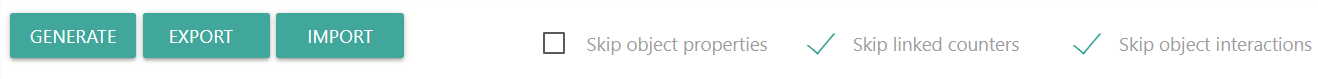
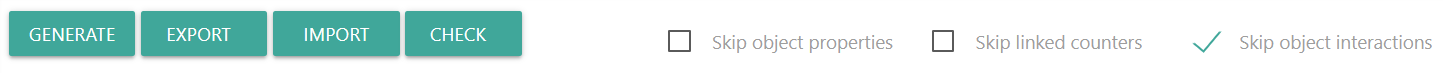
* actions/import&export: fix errors, add check button, update help * actions/counter_settings: fix error when make list of the counters * models_db/countersDB.js: fix error * models_db/objectsDB.js: fix error

diff --git a/actions/import_export/server.js b/actions/import_export/server.js
@@ -29,19 +29,21 @@ module.exports = function(args, callback) {
     // find existing objects in database for update
     var counters = {};
     var objects = {};
-    importedData.forEach(o => {
-        if(Array.isArray(o.counters)) {
-            o.counters.forEach(counterName => counters[counterName] = 0);
+    importedData.forEach(obj => {
+        if(Array.isArray(obj.counters)) {
+            obj.counters.forEach(counterName => counters[counterName] = 0);
         }
-        objects[o.name] = 0;
+        objects[obj.name] = 0;
 
-        if(Array.isArray(o.interactions)) {
-            o.interactions.forEach(interaction => {
+        if(Array.isArray(obj.interactions)) {
+            obj.interactions.forEach(interaction => {
                 objects[interaction.name1] = 0;
                 objects[interaction.name2] = 0;
             });
         }
     });
+
+    if(!Object.keys(objects).length) return callback(new Error('Can\'t find objects in the imported data'));
 
     // get object IDs by object names
     modelsDBObjectsDB.getObjectsByNames(Object.keys(objects), function (err, rows) {
@@ -56,15 +58,19 @@ module.exports = function(args, callback) {
             }
             rows.forEach(row => counters[row.name] = row.id);
 
+            log.info('Import objects from ', importedData);
+            log.info('Objects: ', objects);
+            log.info('Counters: ', counters);
             transactionDB.begin(function (err) {
                 if (err) return callback(err);
 
                 async.eachSeries(importedData, function (param, callback) {
-                    addOrUpdateObjects(args.user, {
+                    addOrUpdateObjects(args.username, {
                         id: objects[param.name],
                         name: param.name,
                         description: param.description,
                         disabled: param.disabled,
+                        sortPosition: param.sortPosition,
                         color: param.color,
                     }, function (err, objectID) {
                         if (err) {
@@ -72,20 +78,22 @@ module.exports = function(args, callback) {
                                 err.message + ': ' + JSON.stringify(param)));
                         }
 
+                        objects[param.name] = objectID;
+
                         async.waterfall([function (callback) {
-                                saveProperties(args.user, {
+                                saveProperties(args.username, {
                                     id: objectID,
                                     name: param.name,
                                     properties: args.skipProperties ? null : param.properties,
                                 }, callback);
                             }, function (callback) {
-                                saveLinkedCounters(args.user, {
+                                saveLinkedCounters(args.username, {
                                     id: objectID,
                                     name: param.name,
                                     counters: args.skipLinkedCounters ? null : param.counters,
                                 }, counters, callback);
                             }, function (callback) {
-                                saveInteractions(args.user, {
+                                saveInteractions(args.username, {
                                     id: objectID,
                                     name: param.name,
                                     interactions: args.skipInteractions ? null : param.interactions,

diff --git a/actions/import_export/static/client.js b/actions/import_export/static/client.js
@@ -75,6 +75,19 @@ var JQueryNamespace = (function ($) {
 
         $("#importObjectBtn").on('change', load);
 
+        $('#checkDependenciesBtn').click(function() {
+            importExportEditor.save();
+            var objectsDataStr = $('#importExportJSONEditor').val();
+
+            try {
+                var objectsData = checkData(objectsDataStr);
+            } catch(e) {
+                log.error('Error in object data: ', e.message);
+                return;
+            }
+            checkDependencies(objectsData)
+        })
+
         M.Tooltip.init(document.querySelectorAll('.tooltipped'), {enterDelay: 500});
 
         generateJSON();
@@ -126,6 +139,7 @@ var JQueryNamespace = (function ($) {
         importExportEditor.setValue('[]');
         importExportEditor.save();
 
+        if(!objectsIDs.length) return;
 
         var objectsIDs = objects.map(o => o.id);
         // objects = [{id:, name:, description:, sortPosition:, color:, disabled:}, ...]
@@ -252,6 +266,11 @@ var JQueryNamespace = (function ($) {
 
     function checkDependencies(objectsData, callback) {
 
+        if(!Array.isArray(objectsData) || !objectsData.length) {
+            M.toast({html: 'Object data not found in editor', displayLength: 3000});
+            return;
+        }
+
         var externalObjectNames = {}, externalCounterNames = {};
 
         objectsData.forEach(objectData => {
@@ -261,8 +280,14 @@ var JQueryNamespace = (function ($) {
 
             if(Array.isArray(objectData.interactions) && objectData.interactions.length) {
                 objectData.interactions.forEach(intersection => {
-                    externalObjectNames[intersection.name1] = 0;
-                    externalObjectNames[intersection.name2] = 0;
+                    if(objectData.name) {
+                        if (intersection.name1 && objectData.name.toUpperCase() !== intersection.name1.toUpperCase()) {
+                            externalObjectNames[intersection.name1] = 0;
+                        }
+                        if (intersection.name2 && objectData.name.toUpperCase() !== intersection.name2.toUpperCase()) {
+                            externalObjectNames[intersection.name2] = 0;
+                        }
+                    }
                 });
             }
 
@@ -312,7 +337,7 @@ var JQueryNamespace = (function ($) {
                 importExportEditor.setValue(JSON.stringify(objectsData, null, 4));
 
                 if(!unresolvedObjects.length && !unresolvedCounters.length) {
-                    M.toast({html: 'Successfully loading JSON for objects', displayLength: 2000});
+                    M.toast({html: 'Successfully checking JSON data. No errors found', displayLength: 2000});
                 } else {
                     $('#modalImportEntitiesNotFoundList').html(
                         unresolvedObjects.map(o => {

diff --git a/actions/counter_settings/static/client.js b/actions/counter_settings/static/client.js
@@ -2040,7 +2040,7 @@ var JQueryNamespace = (function ($) {
                 var isFoundParentCounterName = false;
                 for (var i = 0; counters && i < counters.length; i++) {
                     var counter = counters[i];
-                    if (parentCounterName.toUpperCase() === counter.name.toUpperCase()) {
+                    if (parentCounterName && parentCounterName.toUpperCase() === counter.name.toUpperCase()) {
                         isFoundParentCounterName = true;
                         selected = ' selected';
                     } else selected = '';

diff --git a/models_db/countersDB.js b/models_db/countersDB.js
@@ -388,7 +388,7 @@ WHERE objectsCounters.id = ?`, OCID, callback);
  * [{name: <counterName>, id: <counterID>}]
  */
 countersDB.getCountersIDsByNames = function (countersNames, callback) {
-    if(!countersNames || !countersNames.length) return;
+    if(!countersNames || !countersNames.length) return callback(null, []);
     //db.all('SELECT name, id FROM counters WHERE name IN (' +
     //    (new Array(countersNames.length)).fill('?').join(',') + ') COLLATE NOCASE', countersNames, callback);
 

diff --git a/models_db/objectsDB.js b/models_db/objectsDB.js
@@ -207,6 +207,8 @@ objectsDB.getObjectsLikeNames = function(namesLike, callback) {
 };
 
 function getObjectsByX(IDs, condition, suffix, callback) {
+    if(!IDs || !IDs.length) return callback(null, []);
+
     var rows = [];
     var stmt = db.prepare('SELECT * FROM objects WHERE ' + condition + '? ' + suffix + ' ORDER BY name', function(err) {
         if(err) return callback(err);
